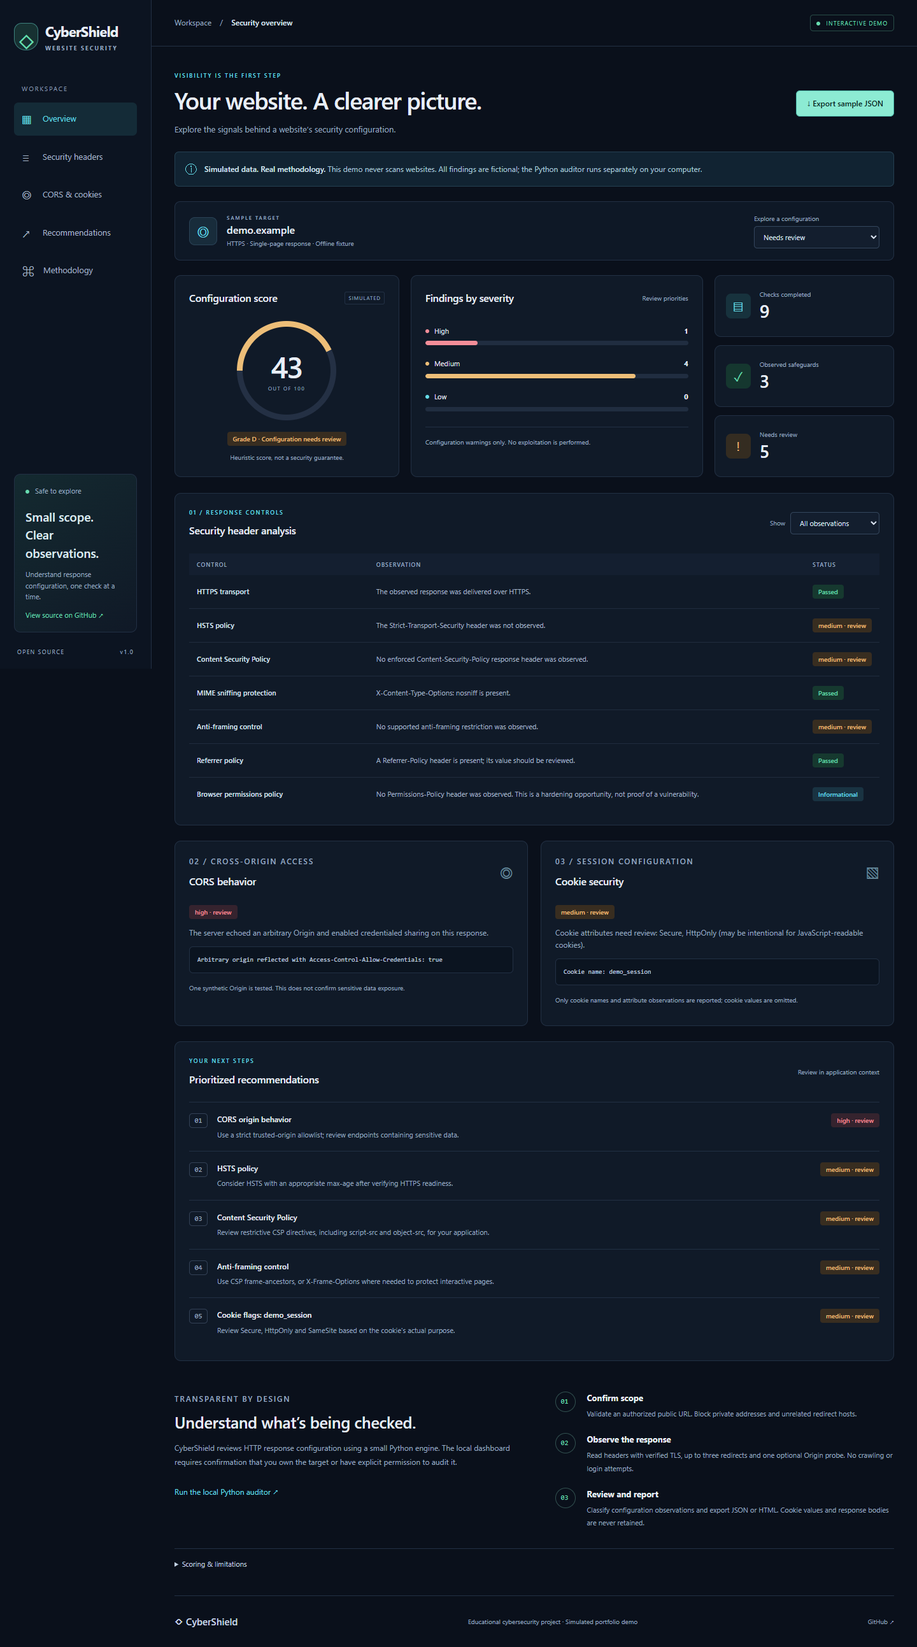
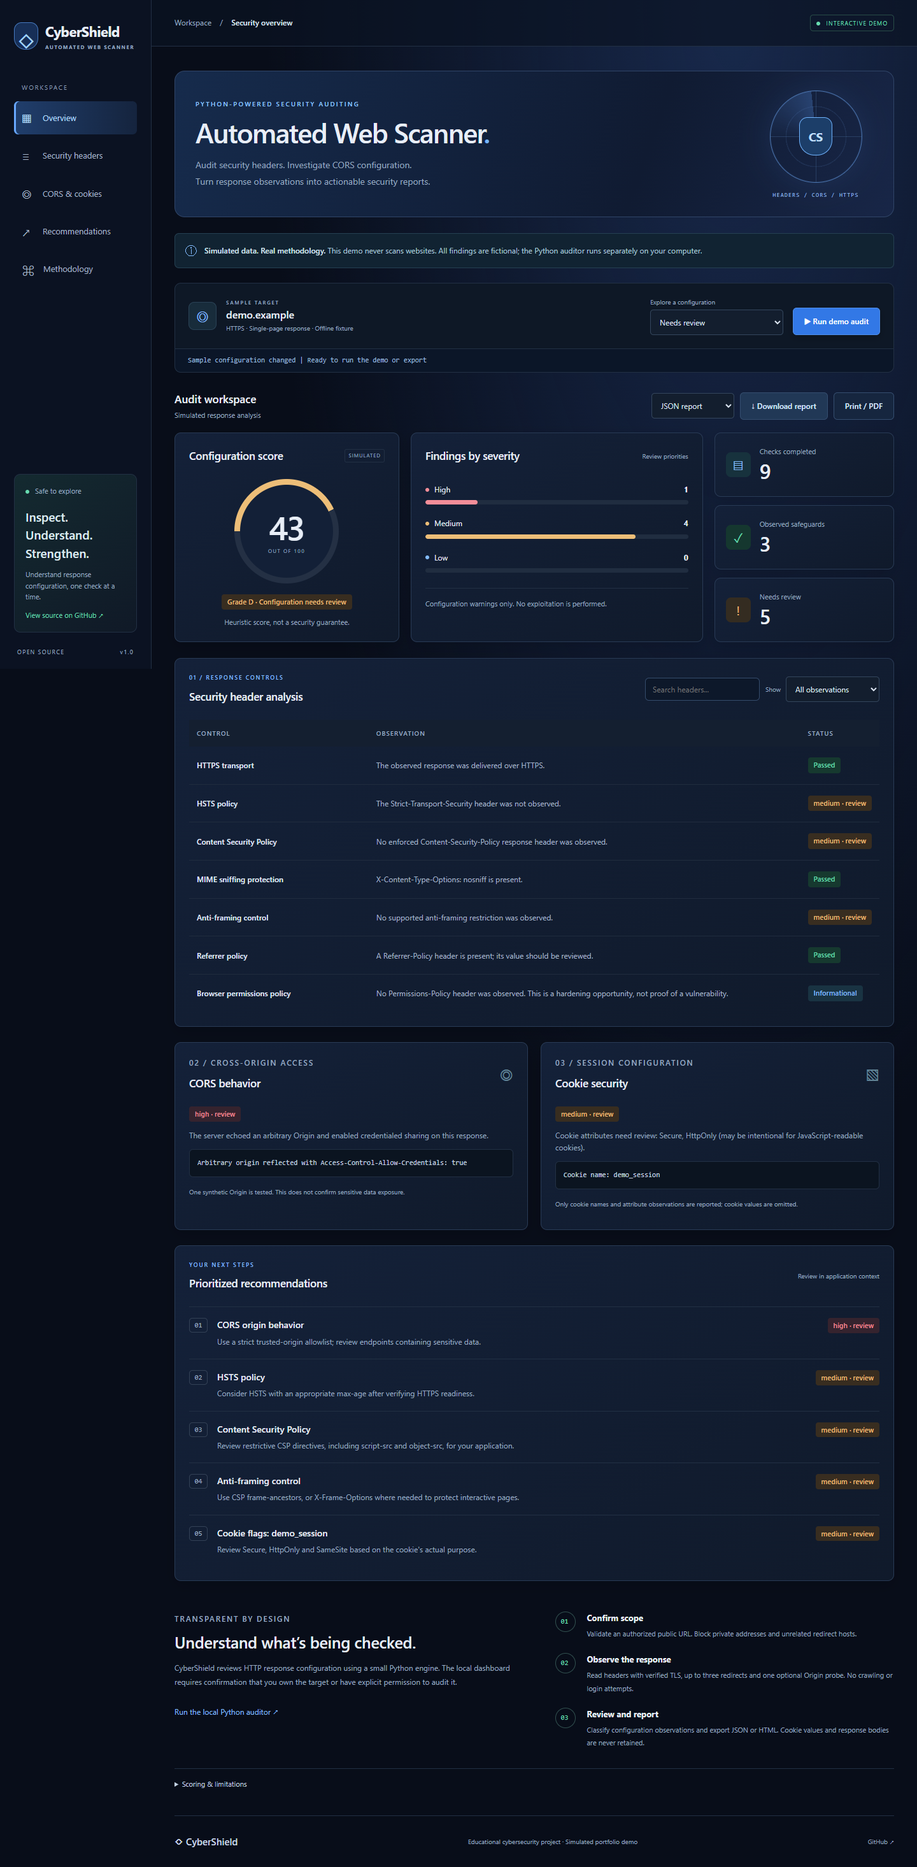
Polish scanner workspace and add demo workflow and report exports

diff --git a/docs/index.html b/docs/index.html
@@ -2,30 +2,30 @@
 <html lang="en"><head>
 <meta charset="utf-8"><meta name="viewport" content="width=device-width, initial-scale=1">
 <meta name="description" content="Explore CyberShield: a simulated security dashboard and Python auditor for authorized local use.">
-<meta name="theme-color" content="#0a101b"><title>CyberShield | Security overview</title>
+<meta name="theme-color" content="#0a101b"><title>CyberShield | Automated Web Scanner</title>
 <link rel="stylesheet" href="styles.css"><script src="demo-data.js" defer></script><script src="app.js" defer></script>
 </head><body>
 <a class="skip" href="#overview">Skip to dashboard</a>
 <aside class="sidebar">
-<a class="brand" href="#overview"><span class="shield" aria-hidden="true">◇</span><span>CyberShield<small>WEBSITE SECURITY</small></span></a>
+<a class="brand" href="#overview"><span class="shield" aria-hidden="true">◇</span><span>CyberShield<small>AUTOMATED WEB SCANNER</small></span></a>
 <span class="nav-label">WORKSPACE</span>
 <nav aria-label="Main navigation"><a href="#overview"><span aria-hidden="true">▦</span> Overview</a><a href="#headers"><span aria-hidden="true">≡</span> Security headers</a><a href="#access"><span aria-hidden="true">◎</span> CORS &amp; cookies</a><a href="#recommendations"><span aria-hidden="true">↗</span> Recommendations</a><a href="#methodology"><span aria-hidden="true">⌘</span> Methodology</a></nav>
-<div class="sidebar-note"><span class="live-dot"></span> Safe to explore<h3>Small scope.<br>Clear observations.</h3><p>Understand response configuration, one check at a time.</p><a href="https://github.com/shekhawatgaurav/cybershield">View source on GitHub ↗</a></div>
+<div class="sidebar-note"><span class="live-dot"></span> Safe to explore<h3>Inspect. Understand.<br>Strengthen.</h3><p>Understand response configuration, one check at a time.</p><a href="https://github.com/shekhawatgaurav/cybershield">View source on GitHub ↗</a></div>
 <div class="sidebar-footer">OPEN SOURCE <span>v1.0</span></div>
 </aside>
 <div class="workspace"><header class="topbar"><span>Workspace <span class="muted">/</span> <strong>Security overview</strong></span><span class="demo-tag"><span class="live-dot"></span> INTERACTIVE DEMO</span></header>
 <main id="overview">
-<div class="heading"><div><p class="eyebrow">VISIBILITY IS THE FIRST STEP</p><h1>Your website. A clearer picture.</h1><p class="lead">Explore the signals behind a website’s security configuration.</p></div><button id="export" class="button" disabled>↓ Export sample JSON</button></div>
+<div class="heading"><div><p class="eyebrow">PYTHON-POWERED SECURITY AUDITING</p><h1>Automated Web Scanner<span class="hero-dot">.</span></h1><p class="lead">Audit security headers. Investigate CORS configuration.<br>Turn response observations into actionable security reports.</p></div><div class="hero-visual" aria-hidden="true"><div class="radar"><span>CS</span></div><span class="radar-caption">HEADERS / CORS / HTTPS</span></div></div>
 <div class="notice"><span aria-hidden="true">ⓘ</span><p><strong>Simulated data. Real methodology.</strong> This demo never scans websites. All findings are fictional; the Python auditor runs separately on your computer.</p></div>
-<section class="target-panel" aria-label="Demo scenario"><div class="target-icon" aria-hidden="true">◎</div><div class="target"><span class="eyebrow">SAMPLE TARGET</span><strong>demo.example</strong><span class="muted">HTTPS · Single-page response · Offline fixture</span></div><div class="scenario"><label for="scenario">Explore a configuration</label><select id="scenario"><option value="baseline">Needs review</option><option value="hardened">After sample improvements</option></select></div></section>
-<div id="status" class="sr-only" role="status" aria-live="polite"></div>
+<section class="target-panel" aria-label="Demo scenario"><div class="target-icon" aria-hidden="true">◎</div><div class="target"><span class="eyebrow">SAMPLE TARGET</span><strong>demo.example</strong><span class="muted">HTTPS · Single-page response · Offline fixture</span></div><div class="scenario"><label for="scenario">Explore a configuration</label><select id="scenario"><option value="baseline">Needs review</option><option value="hardened">After sample improvements</option></select></div><button id="run-demo" class="button">&#9654; Run demo audit</button></section><div class="demo-progress" id="demo-progress" role="status" aria-live="polite">Sample loaded &middot; No target requests &middot; Ready to explore</div>
+<div class="report-toolbar"><span><strong>Audit workspace</strong><small>Simulated response analysis</small></span><div class="export-actions"><label class="sr-only" for="export-format">Report format</label><select id="export-format"><option value="json">JSON report</option><option value="html">HTML report</option><option value="csv">CSV findings</option></select><button id="export" class="button secondary" disabled>&#8595; Download report</button><button id="print" class="button secondary">Print / PDF</button></div></div><div id="status" class="sr-only" role="status" aria-live="polite"></div>
 <noscript><p class="notice">Enable JavaScript to explore the sample scores and findings. The methodology below remains available.</p></noscript>
 <section class="overview-grid" aria-label="Security overview">
 <article class="panel score-panel"><div class="panel-title"><h2>Configuration score</h2><span class="subtle-tag">SIMULATED</span></div><div id="score-ring" class="score-ring"><div><strong id="score">—</strong><span>OUT OF 100</span></div></div><div class="score-caption"><span id="grade" class="badge medium">Loading sample</span><p>Heuristic score, not a security guarantee.</p></div></article>
 <article class="panel severity-panel"><div class="panel-title"><h2>Findings by severity</h2><span class="muted">Review priorities</span></div><div id="severity-bars" class="bars"></div><div class="chart-footer">Configuration warnings only. No exploitation is performed.</div></article>
 <div class="stat-stack"><article class="panel stat"><span class="stat-icon cyan" aria-hidden="true">▤</span><div><span>Checks completed</span><strong id="checks">—</strong></div></article><article class="panel stat"><span class="stat-icon green" aria-hidden="true">✓</span><div><span>Observed safeguards</span><strong id="passed">—</strong></div></article><article class="panel stat"><span class="stat-icon amber" aria-hidden="true">!</span><div><span>Needs review</span><strong id="warnings">—</strong></div></article></div>
 </section>
-<section id="headers" class="panel section-panel"><div class="panel-title"><div><p class="eyebrow">01 / RESPONSE CONTROLS</p><h2>Security header analysis</h2></div><label class="filter">Show <select id="filter"><option value="ALL">All observations</option><option value="WARN">Needs review</option><option value="PASS">Passed checks</option><option value="INFO">Informational</option></select></label></div><div class="table-wrap"><table><caption class="sr-only">Simulated transport and security header observations</caption><thead><tr><th scope="col">Control</th><th scope="col">Observation</th><th scope="col">Status</th></tr></thead><tbody id="header-rows"></tbody></table></div><p id="empty" class="empty" hidden>No header observations match this filter.</p></section>
+<section id="headers" class="panel section-panel"><div class="panel-title"><div><p class="eyebrow">01 / RESPONSE CONTROLS</p><h2>Security header analysis</h2></div><div class="table-tools"><label class="sr-only" for="search">Search security headers</label><input id="search" type="search" placeholder="Search headers..."><label class="filter">Show <select id="filter"><option value="ALL">All observations</option><option value="WARN">Needs review</option><option value="PASS">Passed checks</option><option value="INFO">Informational</option></select></label></div></div><div class="table-wrap"><table><caption class="sr-only">Simulated transport and security header observations</caption><thead><tr><th scope="col">Control</th><th scope="col">Observation</th><th scope="col">Status</th></tr></thead><tbody id="header-rows"></tbody></table></div><p id="empty" class="empty" hidden>No header observations match this filter.</p></section>
 <section id="access" class="access-grid" aria-label="CORS and cookie security"><article class="panel"><div class="panel-title"><div><p class="eyebrow">02 / CROSS-ORIGIN ACCESS</p><h2>CORS behavior</h2></div><span aria-hidden="true" class="section-icon">◎</span></div><div id="cors-content"></div></article><article class="panel"><div class="panel-title"><div><p class="eyebrow">03 / SESSION CONFIGURATION</p><h2>Cookie security</h2></div><span aria-hidden="true" class="section-icon">▧</span></div><div id="cookie-content"></div></article></section>
 <section id="recommendations" class="panel section-panel"><div class="panel-title"><div><p class="eyebrow">YOUR NEXT STEPS</p><h2>Prioritized recommendations</h2></div><span class="muted">Review in application context</span></div><div id="recommendation-list"></div></section>
 <section id="methodology" class="methodology"><div><p class="eyebrow">TRANSPARENT BY DESIGN</p><h2>Understand what’s being checked.</h2><p>CyberShield reviews HTTP response configuration using a small Python engine. The local dashboard requires confirmation that you own the target or have explicit permission to audit it.</p><a class="text-link" href="https://github.com/shekhawatgaurav/cybershield#run-locally">Run the local Python auditor ↗</a></div><ol class="steps"><li><span>01</span><div><h3>Confirm scope</h3><p>Validate an authorized public URL. Block private addresses and unrelated redirect hosts.</p></div></li><li><span>02</span><div><h3>Observe the response</h3><p>Read headers with verified TLS, up to three redirects and one optional Origin probe. No crawling or login attempts.</p></div></li><li><span>03</span><div><h3>Review and report</h3><p>Classify configuration observations and export JSON or HTML. Cookie values and response bodies are never retained.</p></div></li></ol></section>

diff --git a/docs/app.js b/docs/app.js
@@ -7,7 +7,8 @@
   const badge = f => `<span class="badge ${f.status === "WARN" ? f.severity.toLowerCase() : f.status.toLowerCase()}">${f.status === "WARN" ? `${f.severity.toLowerCase()} · review` : f.status === "PASS" ? "Passed" : "Informational"}</span>`;
   function renderHeaders() {
     const filter = byId("filter").value;
-    const findings = data[selected].findings.filter(f => !f.key.startsWith("cookie") && f.key !== "cors" && (filter === "ALL" || f.status === filter));
+    const query = byId("search").value.trim().toLowerCase();
+    const findings = data[selected].findings.filter(f => !f.key.startsWith("cookie") && f.key !== "cors" && (filter === "ALL" || f.status === filter) && `${f.title} ${f.detail}`.toLowerCase().includes(query));
     byId("header-rows").innerHTML = findings.map(f => `<tr><td>${escape(f.title)}</td><td>${escape(f.detail)}</td><td>${badge(f)}</td></tr>`).join("");
     byId("empty").hidden = findings.length > 0;
   }
@@ -35,16 +36,50 @@
     byId("recommendation-list").innerHTML = warnings.length ? warnings.map((f,i) => `<article class="recommendation"><span class="number">${String(i+1).padStart(2,"0")}</span><div><h3>${escape(f.title)}</h3><p>${escape(f.recommendation)}</p></div>${badge(f)}</article>`).join("") : '<p class="muted">No warnings in this improved fixture. Continue reviewing application behavior, policy values and authenticated routes; a score of 100 does not guarantee security.</p>';
     byId("status").textContent = `Simulated ${selected} configuration loaded. Score ${result.score} of 100; ${result.summary.warnings} warnings.`;
   }
-  byId("scenario").addEventListener("change", event => {selected = event.target.value; render();});
+  byId("scenario").addEventListener("change", event => {selected = event.target.value; render(); byId("demo-progress").textContent = "Sample configuration changed | Ready to run the demo or export";});
   byId("filter").addEventListener("change", renderHeaders);
   byId("export").disabled = false;
+  function htmlReport(result) {
+    const rows = result.findings.map(f => `<article><h2>${escape(f.title)} <small>${escape(f.status)} / ${escape(f.severity)}</small></h2><p>${escape(f.detail)}</p><p><b>Recommendation:</b> ${escape(f.recommendation)}</p>${f.evidence ? `<p><b>Evidence:</b> ${escape(f.evidence)}</p>` : ""}</article>`).join("");
+    return `<!doctype html><html lang="en"><head><meta charset="utf-8"><meta name="viewport" content="width=device-width,initial-scale=1"><title>CyberShield simulated audit report</title><style>body{font:15px/1.7 system-ui,sans-serif;color:#172436;max-width:960px;margin:40px auto;padding:0 24px}header{border-bottom:3px solid #3278e6;padding-bottom:24px}h1{font-size:32px}h2{font-size:18px}small{font-size:12px;color:#53657c}article{border-bottom:1px solid #ccd5e1;padding:16px 0;break-inside:avoid}.notice{padding:12px;background:#eaf2ff}footer{margin:30px 0;color:#53657c}@media print{body{margin:0}}</style></head><body><header><small>CYBERSHIELD / AUTOMATED WEB SCANNER</small><h1>Security configuration report</h1><p class="notice"><strong>SIMULATED DATA.</strong> No real website was scanned. Scenario: ${escape(selected)}.</p><p>Sample target: ${escape(result.final_url)}<br>Configuration score: <b>${result.score}/100 | Grade ${escape(result.grade)}</b><br>Checks: ${result.summary.total_checks} | Warnings: ${result.summary.warnings} | Passed: ${result.summary.passed}</p></header>${rows}<footer>${escape(result.disclaimer)}<p>Scoring: start at 100; subtract 17 per high, 10 per medium and 5 per low warning, with a floor of zero. Fixture date: ${escape(result.scanned_at)} (not a live scan timestamp).</p></footer></body></html>`;
+  }
+  byId("search").addEventListener("input", renderHeaders);
+  byId("print").addEventListener("click", () => window.print());
+  byId("run-demo").addEventListener("click", async () => {
+    const button = byId("run-demo");
+    button.disabled = true;
+    byId("scenario").disabled = true;
+    byId("demo-progress").classList.add("running");
+    const stages = ["SIMULATION 1/3 | Loading synthetic response headers...", "SIMULATION 2/3 | Reviewing header, CORS and cookie observations...", "SIMULATION 3/3 | Preparing score and recommendations..."];
+    for (const stage of stages) {
+      byId("demo-progress").textContent = stage;
+      await new Promise(resolve => setTimeout(resolve, 400));
+    }
+    render();
+    byId("demo-progress").textContent = `Demo complete | ${data[selected].summary.total_checks} checks | ${data[selected].summary.warnings} review items | No network scan performed`;
+    byId("demo-progress").classList.remove("running");
+    button.disabled = false;
+    byId("scenario").disabled = false;
+    button.textContent = "Run demo again";
+  });
   byId("export").addEventListener("click", () => {
-    const url = URL.createObjectURL(new Blob([JSON.stringify(data[selected], null, 2)], {type:"application/json"}));
+    const result = data[selected];
+    const format = byId("export-format").value;
+    const csvCell = value => '"' + String(value).replace(/"/g, '""') + '"';
+    const csvRows = [["Mode", "Scenario", "Control", "Status", "Severity", "Observation", "Recommendation", "Evidence"], ...result.findings.map(f => ["SIMULATED", selected, f.title, f.status, f.severity, f.detail, f.recommendation, f.evidence])];
+    const formats = {
+      json: [JSON.stringify(result, null, 2), "application/json"],
+      html: [htmlReport(result), "text/html"],
+      csv: ["\ufeff" + csvRows.map(row => row.map(csvCell).join(",")).join("\r\n"), "text/csv;charset=utf-8"]
+    };
+    const [content, type] = formats[format];
+    const url = URL.createObjectURL(new Blob([content], {type}));
     const anchor = document.createElement("a");
     anchor.href = url;
-    anchor.download = `cybershield-${selected}-simulated.json`;
+    anchor.download = `cybershield-${selected}-simulated.${format}`;
     anchor.click();
     setTimeout(() => URL.revokeObjectURL(url), 1000);
+    byId("demo-progress").textContent = `${format.toUpperCase()} sample report prepared | ${result.findings.length} observations | Simulated data only`;
   });
   function updateNavigation() {
     const hash = location.hash || "#overview";

diff --git a/docs/styles.css b/docs/styles.css
@@ -1,11 +1,11 @@
 :root {
   color-scheme:dark;
-  --bg:#0a101b;
-  --panel:#101a28;
+  --bg:#080d19;
+  --panel:#111c30;
   --line:#223044;
   --text:#e8eef7;
   --muted:#9aaac0;
-  --cyan:#65dbe7;
+  --cyan:#83bbff;
   --green:#67dbaf;
   --amber:#edbe78;
   --red:#f38d98;
@@ -894,3 +894,45 @@ footer {
     scroll-behavior:auto;
   }
 }
+
+/* Scanner workspace: cobalt, ice blue and restrained status colors. */
+body { background: radial-gradient(ellipse at 80% 0, #18294c 0, transparent 45%), var(--bg); }
+.sidebar { background:#0b1222; }
+.brand { letter-spacing:-.6px; }
+.brand small { font-size:8px; letter-spacing:1.5px; }
+.shield { background:#172f57; border-color:#467ac1; color:#a3d5ff; }
+nav a[aria-current] { background:linear-gradient(90deg,#203e6c,#15243e); color:#b6dbff; box-shadow:inset 3px 0 #69a9ff; }
+.topbar { background:#0a1222b3; }
+.heading { min-height:230px; padding:28px 32px; border:1px solid #304568; border-radius:16px; background:linear-gradient(110deg,#162b4c,#101b32 65%,#182647); position:relative; overflow:hidden; }
+h1 { font-size:clamp(30px,3vw,46px); max-width:650px; letter-spacing:-1.6px; }
+.hero-dot { color:#76b4ff; }
+.heading .eyebrow { font-size:10px; letter-spacing:2.2px; color:#90c4ff; }
+.lead { font-size:14px; line-height:1.85; }
+.hero-visual { width:180px; flex-shrink:0; display:grid; justify-items:center; gap:14px; }
+.radar { width:145px; height:145px; display:grid; place-items:center; border-radius:50%; border:1px solid #4972ac; background:repeating-radial-gradient(circle,transparent 0 22px,#486ea532 23px 24px),conic-gradient(from 30deg,transparent 0 65%,#528bdf50 90%,transparent 90%); box-shadow:0 0 50px #4276c52b; position:relative; }
+.radar::before,.radar::after { content:""; position:absolute; background:#5b87bd45; }
+.radar::before { height:1px; width:100%; }.radar::after { width:1px; height:100%; }
+.radar span { z-index:1; display:grid; place-items:center; width:52px; height:60px; background:#1c3e69; border:1px solid #70b4ff; border-radius:13px 13px 24px 24px; font-weight:700; color:#bfdeff; font-size:19px; }
+.radar-caption { font:9px Consolas,monospace; color:#91b4e1; letter-spacing:1.2px; }
+.button { background:#3278e6; border-color:#508fe9; color:white; padding:11px 17px; font-size:12px; box-shadow:0 4px 12px #0003; }
+.button:hover { background:#438af9; }.button.secondary { background:#16263f; border-color:#354e70; color:#d8e7ff; box-shadow:none; }.button.secondary:hover { background:#213856; }
+.target-panel { margin-bottom:0; border-radius:10px 10px 0 0; padding:21px; flex-wrap:wrap; }
+.target-panel .button { align-self:end; }
+.demo-progress { padding:10px 20px; font:11px/1.5 Consolas,monospace; color:#9ab8dd; background:#0b1628; border:1px solid var(--line); border-top:0; border-radius:0 0 10px 10px; margin-bottom:28px; }
+.demo-progress.running { color:#a7d1ff; border-color:#4b83cc; }
+.report-toolbar { display:flex; align-items:center; justify-content:space-between; gap:16px; margin:28px 0 18px; }
+.report-toolbar strong { font-size:17px; font-weight:600; }.report-toolbar small { display:block; font-size:11px; color:var(--muted); margin-top:3px; }
+.export-actions,.table-tools { display:flex; gap:9px; align-items:center; flex-wrap:wrap; }
+.panel { background:linear-gradient(145deg,#142139,#101a2b); box-shadow:0 7px 24px #0002; border-color:#293b56; }
+.panel h2 { font-size:17px; }.panel-title { flex-wrap:wrap; }
+.score-ring>div { background:#132037; }.score-ring { width:164px; height:164px; }
+.score-ring strong { font-size:52px; }.score-caption p,.chart-footer,.stat div>span { font-size:11px; }
+.stat strong { font-size:32px; }.bar-label { font-size:12px; }
+th { font-size:10px; padding:13px 12px; }td,td:nth-child(2) { font-size:12px; line-height:1.7; padding:17px 12px; }td:first-child { color:#e0ebfb; }
+.badge { font-size:11px; }.recommendation p { font-size:12px; }.recommendation h3 { font-size:14px; }.evidence { font-size:11px; }
+.table-tools input { min-width:0; width:180px; font:12px system-ui,sans-serif; color:var(--text); background:#0d182a; border:1px solid #344c6c; padding:9px 11px; border-radius:6px; }
+input:focus-visible { outline:2px solid var(--cyan); outline-offset:3px; }
+select { font-size:12px; padding-top:10px; padding-bottom:10px; }
+@media(max-width:1150px) { .heading { flex-direction:row; align-items:center; }.hero-visual { width:130px; }.radar { width:115px; height:115px; }.report-toolbar { flex-wrap:wrap; } }
+@media(max-width:760px) { .heading { padding:25px 21px; min-height:210px; }.hero-visual { display:none; }h1 { font-size:34px; }.heading .eyebrow { font-size:9px; }.lead { font-size:13px; }.target-panel .button { width:100%; margin-top:5px; }.export-actions { width:100%; }.export-actions .button { flex:1; }.table-tools { width:100%; }.table-tools input { flex:1; width:120px; }.report-toolbar { gap:12px; }.panel h2 { font-size:16px; }.badge { font-size:10px; }.score-ring { width:145px; height:145px; } }
+@media print { :root { color-scheme:light; } body { background:white; color:#111; }.sidebar,.topbar,.notice,.target-panel,.demo-progress,.export-actions,.table-tools,.hero-visual,footer { display:none!important; }.workspace { margin:0; }main { padding:0; }.heading,.panel { background:white; color:#111; box-shadow:none; border-color:#bbb; }.heading { min-height:auto; padding:15px; }.heading .lead,.muted,td,td:nth-child(2),.recommendation p,.access-grid p { color:#333; }.overview-grid { grid-template-columns:1fr 1fr; }.stat-stack { grid-column:1/-1; grid-template-columns:repeat(3,1fr); }.score-ring>div { background:white; }.panel { break-inside:avoid; }.report-toolbar::after { content:"SIMULATED REPORT ? no real website scanned"; font-size:11px; }.limitations { color:#333; } }

diff --git a/VERIFICATION.md b/VERIFICATION.md
@@ -19,3 +19,7 @@ The first dashboard test run failed because relative AppTest paths resolved with
 No live security scans were performed. DNS, HTTP and CORS test targets are mocked; results do not establish coverage of all browsers, websites or security threats. Streamlit dependencies and temporary browser tooling are installed only locally and are not committed. Browser tooling is not a runtime project dependency.
 
 GitHub CI and Pages deployment status must be assessed on the actual published commit, independently of these local checks.
+
+## Dashboard upgrade verification
+
+The updated cobalt/navy interface was checked in Microsoft Edge on 19 October 2026. Browser checks passed for both guided demo scenarios, header search and its empty state, JSON/HTML/CSV download contents, and the Print/PDF button invoking browser printing. Duplicate element IDs were checked. Responsive checks passed at all six existing viewport widths. Desktop and mobile screenshots were refreshed. No Python engine changes or new runtime dependencies were introduced.

diff --git a/README.md b/README.md
@@ -26,7 +26,7 @@ The public demo uses **simulated findings only**. It never accepts target URLs o
 - Public-address checks, same-host/www redirect scope, three-redirect limit and eight-second socket timeout.
 - JSON and self-contained HTML reports, severity labels and recommendations.
 - Local Streamlit dashboard with authorization confirmation and an offline demo.
-- Responsive static dashboard: two simulated configurations, score chart, severity bars, header filters, CORS/cookie observations and JSON download.
+- Responsive static dashboard: two simulated configurations, score chart, severity bars, searchable header filters, CORS/cookie observations, a guided demo audit, JSON/HTML/CSV downloads and print-to-PDF.
 
 ## Technology and architecture
 
